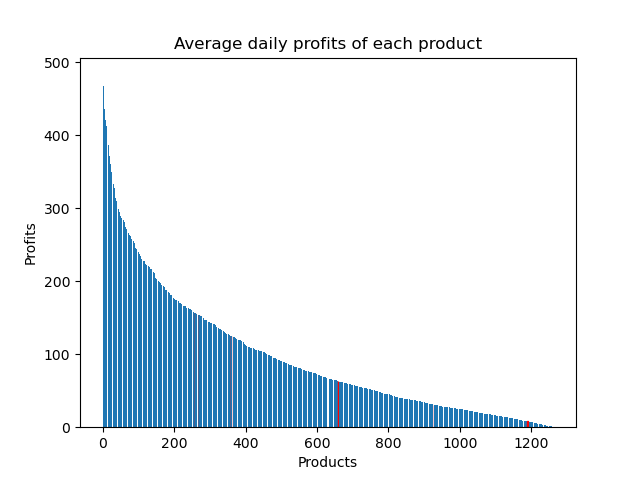
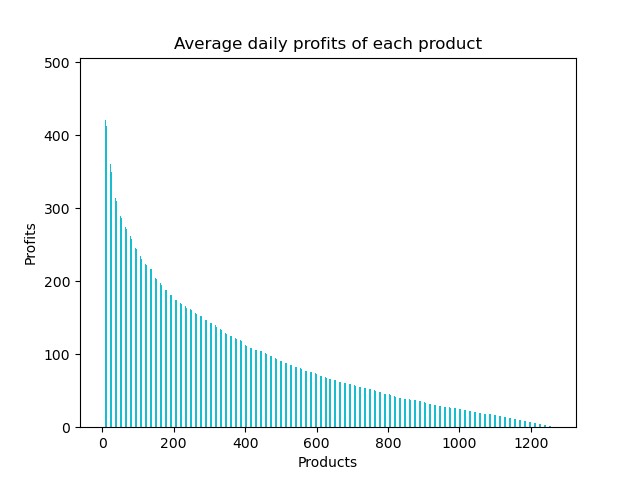
avg demand & std over an replenishment interval

Changed region(s): [[0.1562, 0.25, 0.8438, 0.9375]]

diff --git a/final/belsimpel.py b/final/belsimpel.py
@@ -1,10 +1,8 @@
-from email.errors import BoundaryError
 from utils.encoding import get_encoding_from_file
 from db import Db
 from graphs import Graphs
 import pandas as pd
 import numpy as np
-import json
 import os
 import sys
 import matplotlib.pyplot as plt
@@ -184,8 +182,9 @@ of the product classes so that they are visible.
 """
 # get de min / max rows from df_low, df_mid, and df_high
 df_products_sorted_on_profit_desc = df_products.sort_values(by="average_daily_profit", ascending=False)
+
 # source: https://stackoverflow.com/questions/32653825/how-to-color-data-points-based-on-some-rules-in-matplotlib
-boundary_products = [
+boundary_avg_d_profits = [
     df_low["average_daily_profit"].min(),
     df_low["average_daily_profit"].max(),
     df_medium["average_daily_profit"].min(),
@@ -195,24 +194,62 @@ boundary_products = [
 ]
 
 # colors_based_avg_profit = ["#B45C1F" if avg in boundary_products else "#1F77B4" for avg in df_products_sorted_on_profit_desc["average_daily_profit"].to_list()]
-boundary_indexes = df_products_sorted_on_profit_desc.loc[df_products_sorted_on_profit_desc["average_daily_profit"].isin(boundary_products)].index.to_list()
+# boundary_products = df_products_sorted_on_profit_desc.loc[df_products_sorted_on_profit_desc["average_daily_profit"].isin(boundary_avg_d_profits)]["product_id"].to_list()
 
-X_axis = np.arange(len(df_products_sorted_on_profit_desc)) 
-
-x = X_axis
+x = np.arange(1, len(df_products_sorted_on_profit_desc) + 1) 
 y = df_products_sorted_on_profit_desc["average_daily_profit"]
-barlist = plt.bar(x, y)
-for bi in boundary_indexes:
-    #source: https://stackoverflow.com/questions/18973404/setting-different-bar-color-in-matplotlib-python
-    barlist[bi].set_color("red")
-    barlist[bi].set_edgecolor("red") 
+cmap = ["#d62728" if avg in boundary_avg_d_profits else "#17becf" for avg in y]
 
+barlist = plt.bar(x, y, color=cmap, width=0.4)
+
+# for bp in boundary_products:
+#     #source: https://stackoverflow.com/questions/18973404/setting-different-bar-color-in-matplotlib-python
+#     barlist[bp].set_capstyle("round")
+#     barlist[bp].set_label("Product class boundaries")
+#     barlist[bp].set_color("red")
+#     barlist[bp].set_edgecolor("red")
+#     barlist[bp].set_alpha(1) 
 
 plt.xlabel("Products")
 plt.ylabel("Profits")
 plt.title("Average daily profits of each product")
 plt.savefig(os.path.join(sys.path[0], "plots", "average_daily_profit_per_product_with_markings.png"))
 plt.close()
+
+
+"""
+Belsimpel will be using a periodic-review base-stock policy for managing inventories. The replenishment 
+interval will be one week for all products. To avoid stock-outs, base-stock levels will be set on a product 
+by product basis. This will be done following the μ+zσ rule, where z is a multiplier that is specific to each 
+product  class, and, μ and σ respectively stand for  the  mean and the standard deviation of the demand 
+over the replenishment interval. The multipliers for the  three  product  classes  will be  the z-scores1 that 
+correspond  to  probabilities  0.99,  0.95,  and  0.90,  respectively.  Thus,  the  safety  stocks  will  be  relatively 
+larger for more important products. The base-stock levels are critical as the storage space allocated to a 
+product should be large enough to cover its base-stock level.
+ 
+10.  Compute the average and standard deviation of the demand over the replenishment interval for 
+each product.  
+Hint: If the average and the standard deviation of the daily demand are μ and σ; then those of the 
+demand over T days will be Tμ and √Tσ, respectively.  
+11.  Compute the base-stock level for each product.  
+12.  Compute the number of pick-up boxes required for each product, based on the product volumes 
+and that of the standard pick-up box. Plot these on a histogram using proper number of bins. 
+13.  Briefly comment on your observations based on the graph you have produced. 
+"""
+print("Analyze the base-stock levels")
+replenishment_interval = 7 # equals 7 days in this case
+low_50_z_score = 0.99
+mid_30_z_score = 0.95
+top_20_z_score = 0.90
+
+df_stock = df_products[["product_id", "average_daily_demand", "std_average_daily_demand", "product_volume_cm3", "product_class"]]
+# use assign in order to avoid SettingWithCopyWarning warning: https://www.machinelearningplus.com/pandas/pandas-add-column/ 
+df_stock = df_stock.assign(avg_daily_demand_repln_intv=replenishment_interval * df_stock["average_daily_demand"])
+df_stock = df_stock.assign(avg_std_daily_demand_repln_intv=np.sqrt(replenishment_interval * df_stock["std_average_daily_demand"]))
+
+print(df_stock)
+
+
 
 
 
